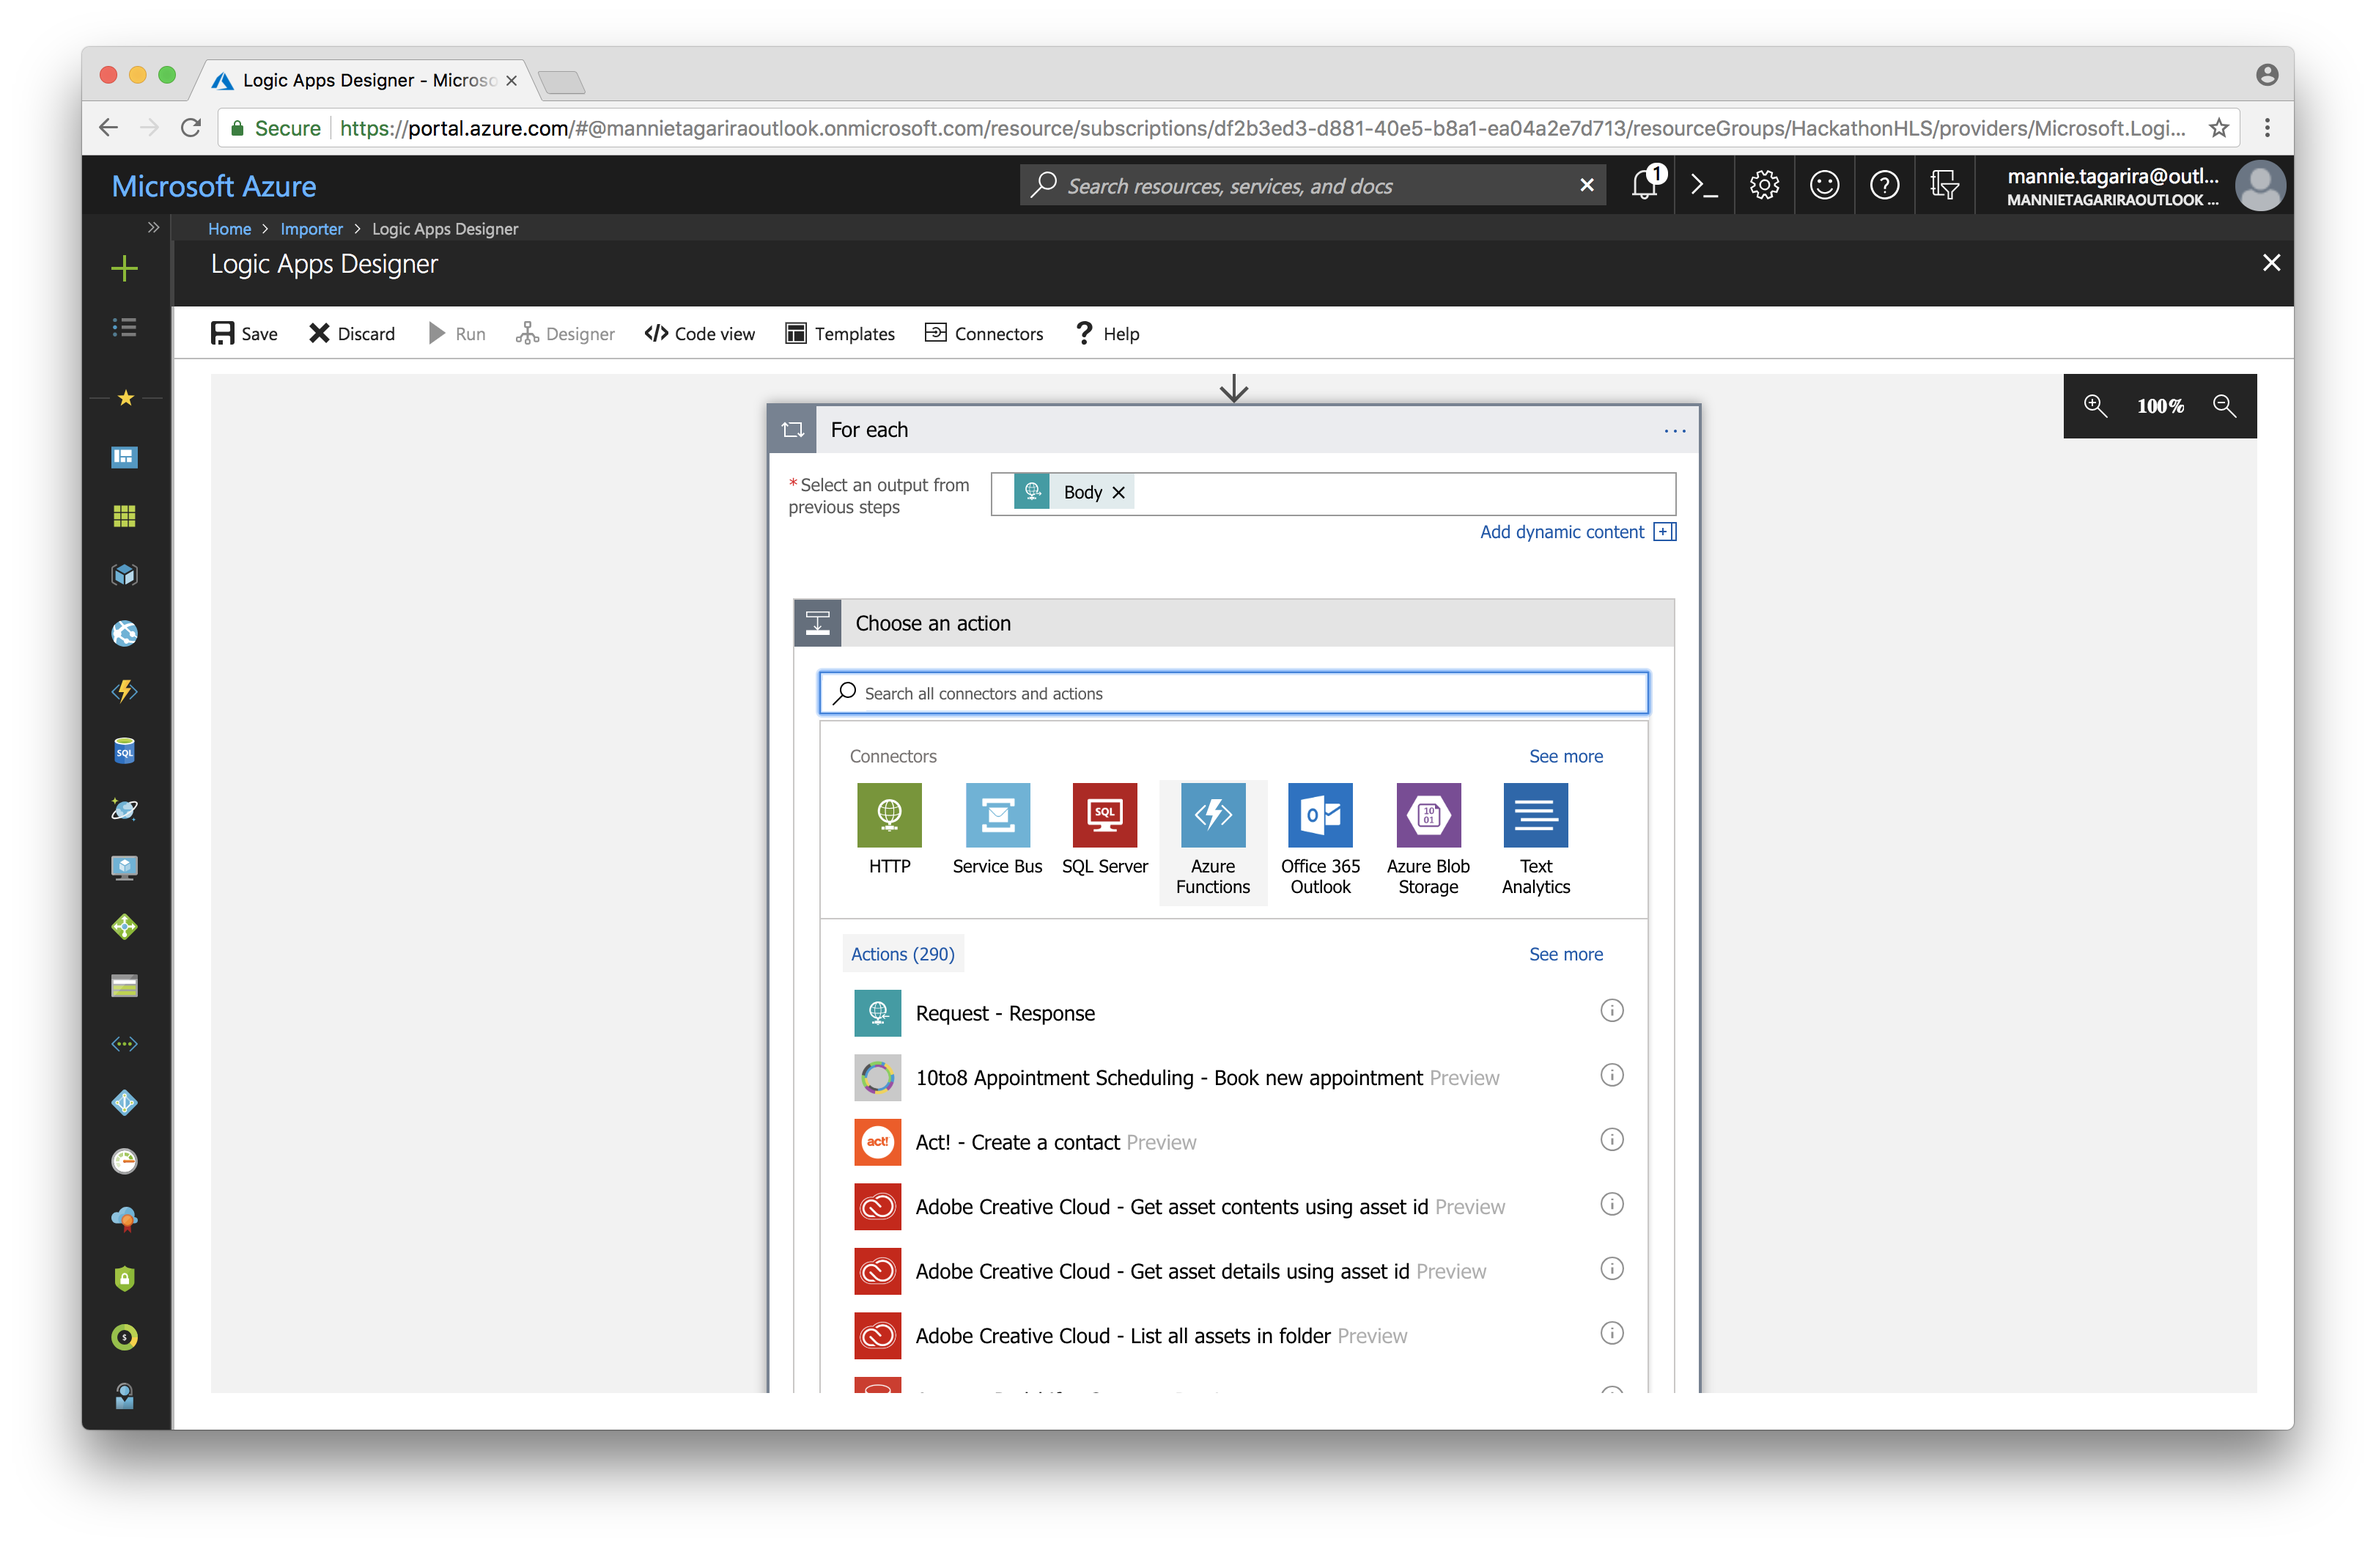
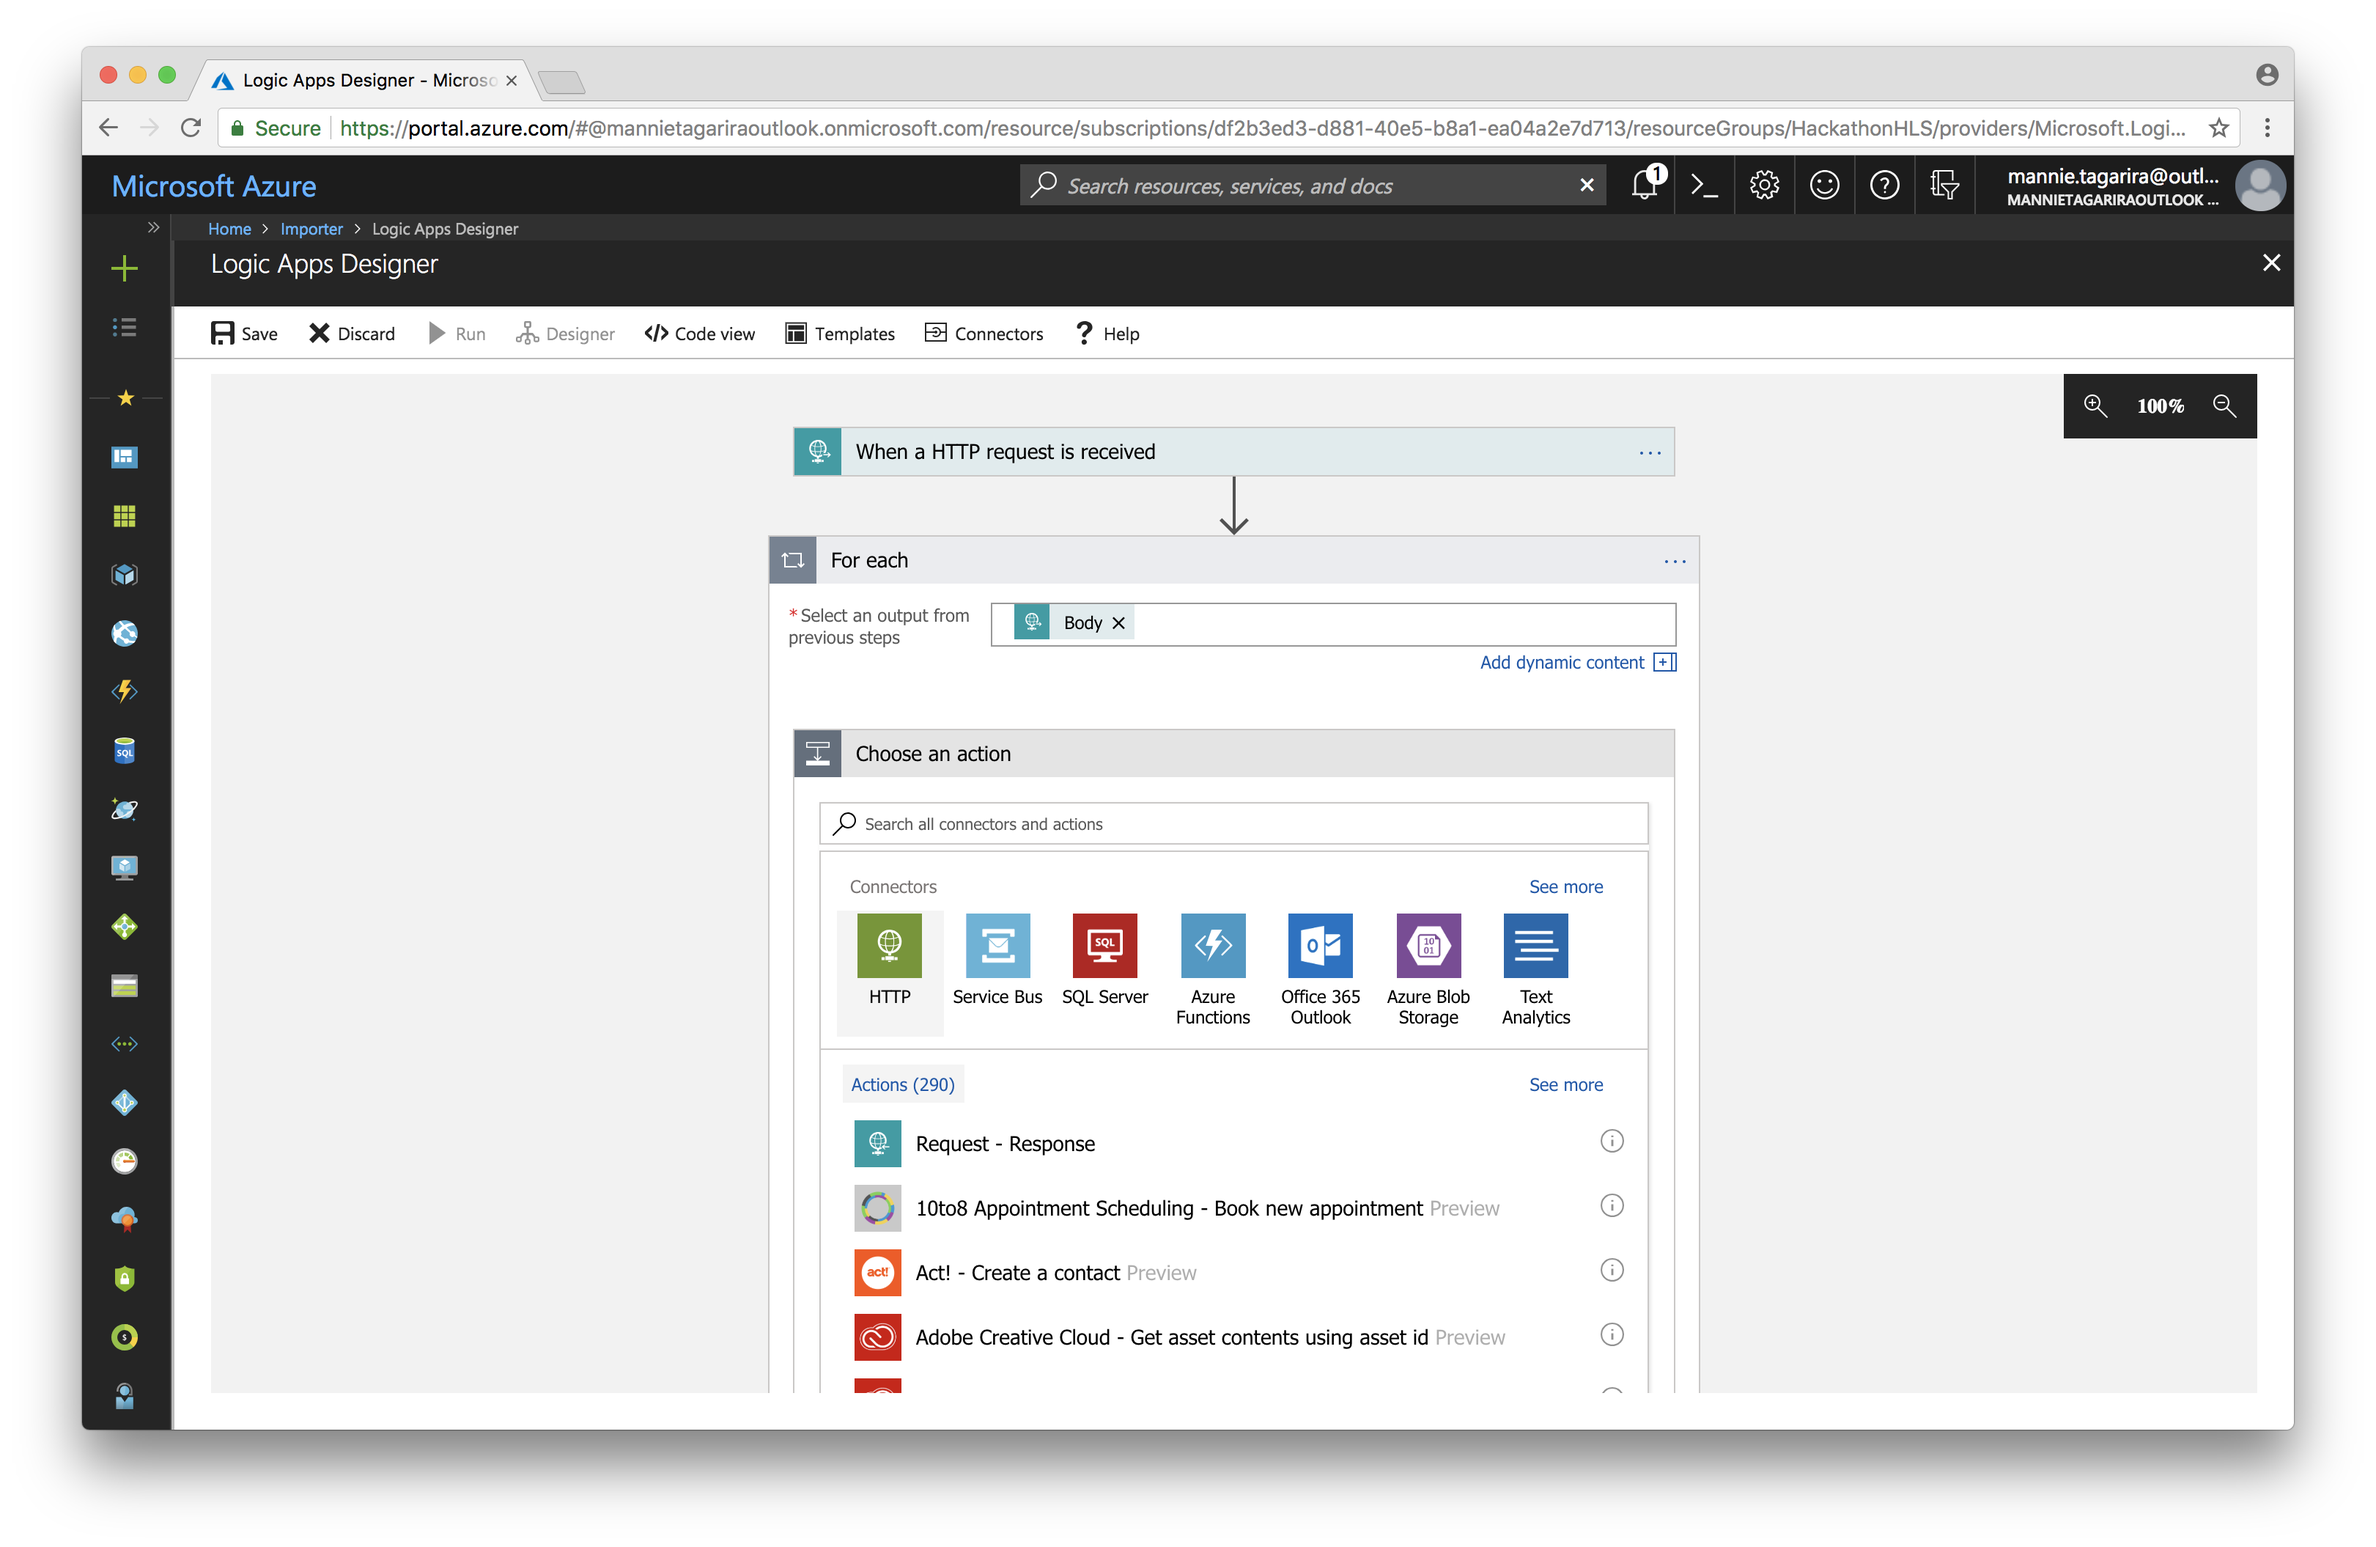
Update the Logic Apps section

Changed region(s): [[0.3115, 0.2464, 0.7165, 0.8626], [0.4985, 0.8626, 0.5919, 0.8934]]

diff --git a/4 - Logic Apps/ReadMe.md b/4 - Logic Apps/ReadMe.md
@@ -11,25 +11,59 @@ Learn more about [Logic Apps](https://azure.microsoft.com/en-us/services/logic-a
 
 ---
 
-![](images/1.png)
-![](images/2.png)
-![](images/3.png)
-![](images/4.png)
-![](images/5.png)
-![](images/6.png)
-![](images/7.png)
-![](images/8.png)
-![](images/9.png)
-![](images/10.png)
-![](images/11.png)
-![](images/12.png)
-![](images/13.png)
-![](images/14.png)
-![](images/15.png)
-![](images/16.png)
-![](images/17.png)
-![](images/18.png)
-![](images/19.png)
-![](images/20.png)
-![](images/21.png)
-![](images/22.png)
+1. Navigate to the resource by clicking _Create a resource_, _Mobile_, then _Logic App_.
+![Navigate to Logic App](images/1.png)
+
+1. Give the Logic App a name and select the resource group from prior sections.
+![Fill in the Logic App creation form](images/2.png)
+
+1. Once the Logic App has been deployed, click _Edit_ to open the Logic App for modification. _This step might not be required; in some cases, the Logic App will automatically open on access._
+![Open the Logic App for editing](images/3.png)
+
+1. Select the _Blank Logic App_ template.
+![Select the template for a blank app](images/4.png)
+
+1. Select _Request_ to show the HTTP triggers. 
+![Show HTTP triggers](images/5.png)
+
+1. Select the trigger for _When a HTTP request is recieved_.
+![Select the HTTP request trigger](images/6.png)
+
+1. Click on _Use sample payload to generate schema_. Paste the contents of [visits_skeleton.json](visits_skeleton.json) into the pop-up the appears.
+![Generate schema using payload](images/7.png)
+
+1. Select the _Add a for each_ option under the _More_ section of _+ New step_.
+![Add a for each widget](images/8.png)
+
+1. Click in the field labelled _Select an output from previous steps_. This will open up a pop-up; select _Body_ from that pop-up. If the pop-up does not appear, click _Add dynamic content_ to make it appear.
+![Select the Body of the HTTP request](images/9.png)
+
+1. Click on _Add an action_ which appears at the bottom of the _For each_ widget. Select the _HTTP_ connector.
+![Select the HTTP connector](images/10.png)
+
+1. Select the _HTTP - HTTP_ action;
+![Select the HTTP action](images/11.png)
+
+1. Set the HTTP method to _POST_ and paste the URL to the Function (for data sanitization) created in the previous section into the _Uri_ field. Set the _Body_ of the request to the _Current item_ of the _For each_.
+![Configure the request to use the sanitization Function](images/12.png)
+
+1. Select _Add an action_, and filter down the results to find _Cosmos DB_. Select the _Create or update document_ action from the filtered list.
+![Find Cosmos DB](images/13.png)
+
+1. You will be prompted to connect to a Cosmos DB resource; give the _connection_ a name and select the _DocumentDB_ created in previous sections.
+![Connect to the Cosmos DB resource](images/14.png)
+
+1. Select the _Database ID_ and _Collection ID_ corresponding with the collection created earlier. Set the _Body_ of the response from the Function (i.e. the sanitized record) as the _Document_ to be inserted. Ensure _IsUpsert_ is set to _Yes_.
+![Add the sanitized record to Cosmos DB](images/15.png)
+
+1. _Save_ the Logic App. The Logic App should now have an endpoint that we can post data to; copy the _HTTP POST URL_ from Logic App's trigger action.
+![Save and copy the URL to the Logic App](images/16.png)
+
+1. In Postman, select _POST_ as the HTTP method to use and paste the Logic App's _HTTP POST URL_ into the request URL field. Under the _Body_ section of the request, select _raw_ and set the content-type to _JSON (application/json)_. Paste the contents of [visits.json](visits.json) into the text field, and click _Send_.
+![Post the contents of visits.json to the Logic App](images/17.png)
+
+1. To verify that that Logic App ran successfully, visit the _Runs history_ section of the Logic App and select the latest run.
+![Verify the Logic App ran](images/18.png)
+
+1. To verify that the data was imported into Cosmos DB successfully, open the Cosmos DB _Data Explorer_, and navigate to the relevant collection.
+![Verify that data was imported into Cosmos DB](images/19.png)
